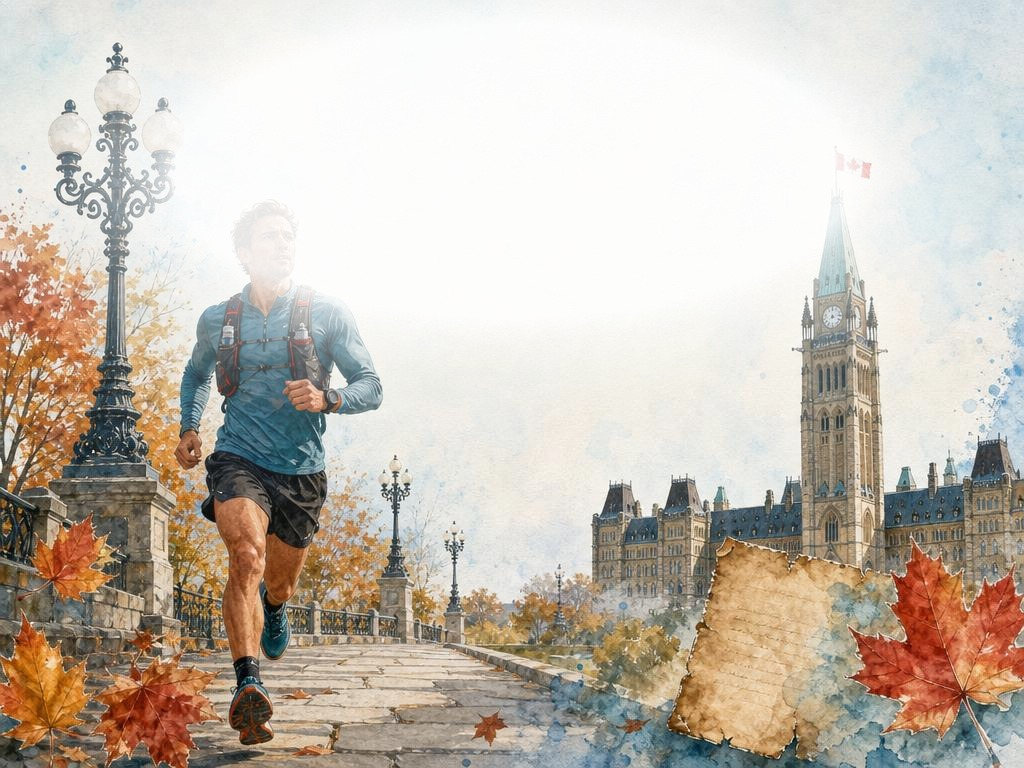
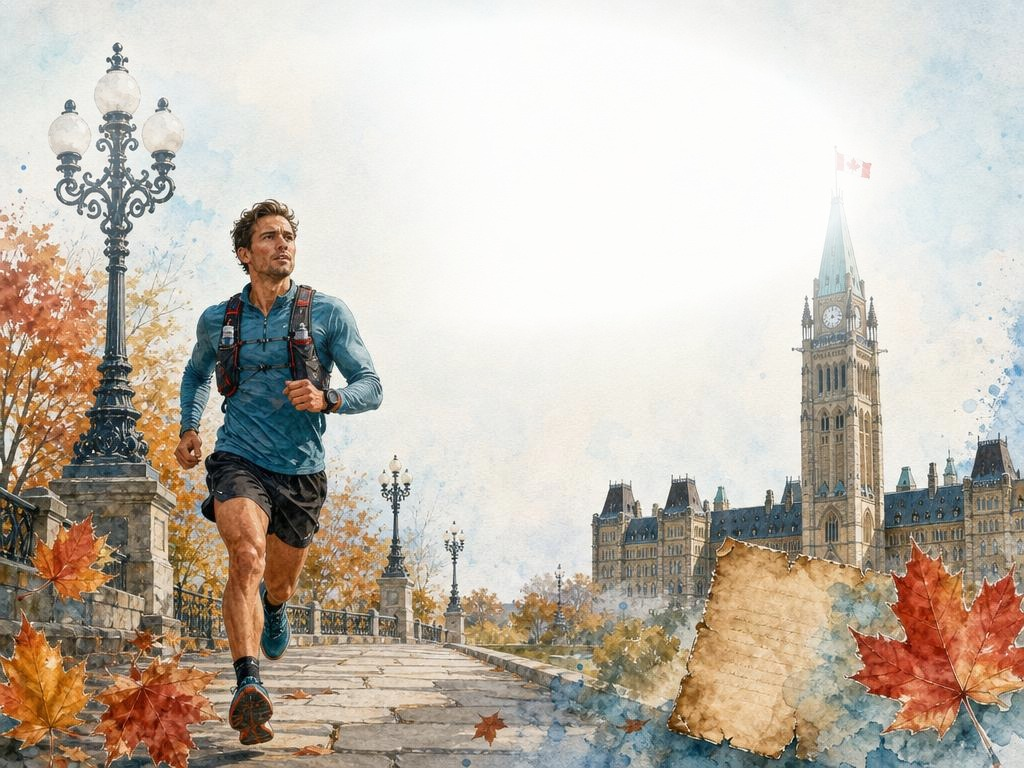
Bill 226: stack subtitle on 2 lines + un-fade runner figure
- statSubtitle splits on <br> so 'Run With Rob' and 'Bill 226 PR Campaign' render as two centered lines under the label
- v9 blueprint + v5 vivid regenerated with a runner-zone protection mask carved out of the cloud fade (left ~10-40% W, 5-80% H); text-zone breathing room over center unchanged
- Result: runner's face, head, and bib are visible again; Parliament tower and other architecture unchanged

Changed region(s): [[0.0938, 0.125, 0.375, 0.5938]]

diff --git a/content/case-studies/bill-226-position-0.md b/content/case-studies/bill-226-position-0.md
@@ -8,7 +8,7 @@ description: "The SEO outcome of Rob Tetrault's Canadian CMB Foundation campaign
 summary: "An EIN Presswire wire achieved Featured Snippet (Position 0) on the issue's primary query for ~14 months before domain migration. The PR-as-SEO integration that most consultants under-leverage."
 stat: "14 mo"
 statLabel: "At Position 0"
-statSubtitle: "Run With Rob · Bill 226 PR Campaign"
+statSubtitle: "Run With Rob<br>Bill 226 PR Campaign"
 cover:
   image: "/makeoverlyonline/images/case-studies/bill-226-position-0.jpg"
   alt: ""